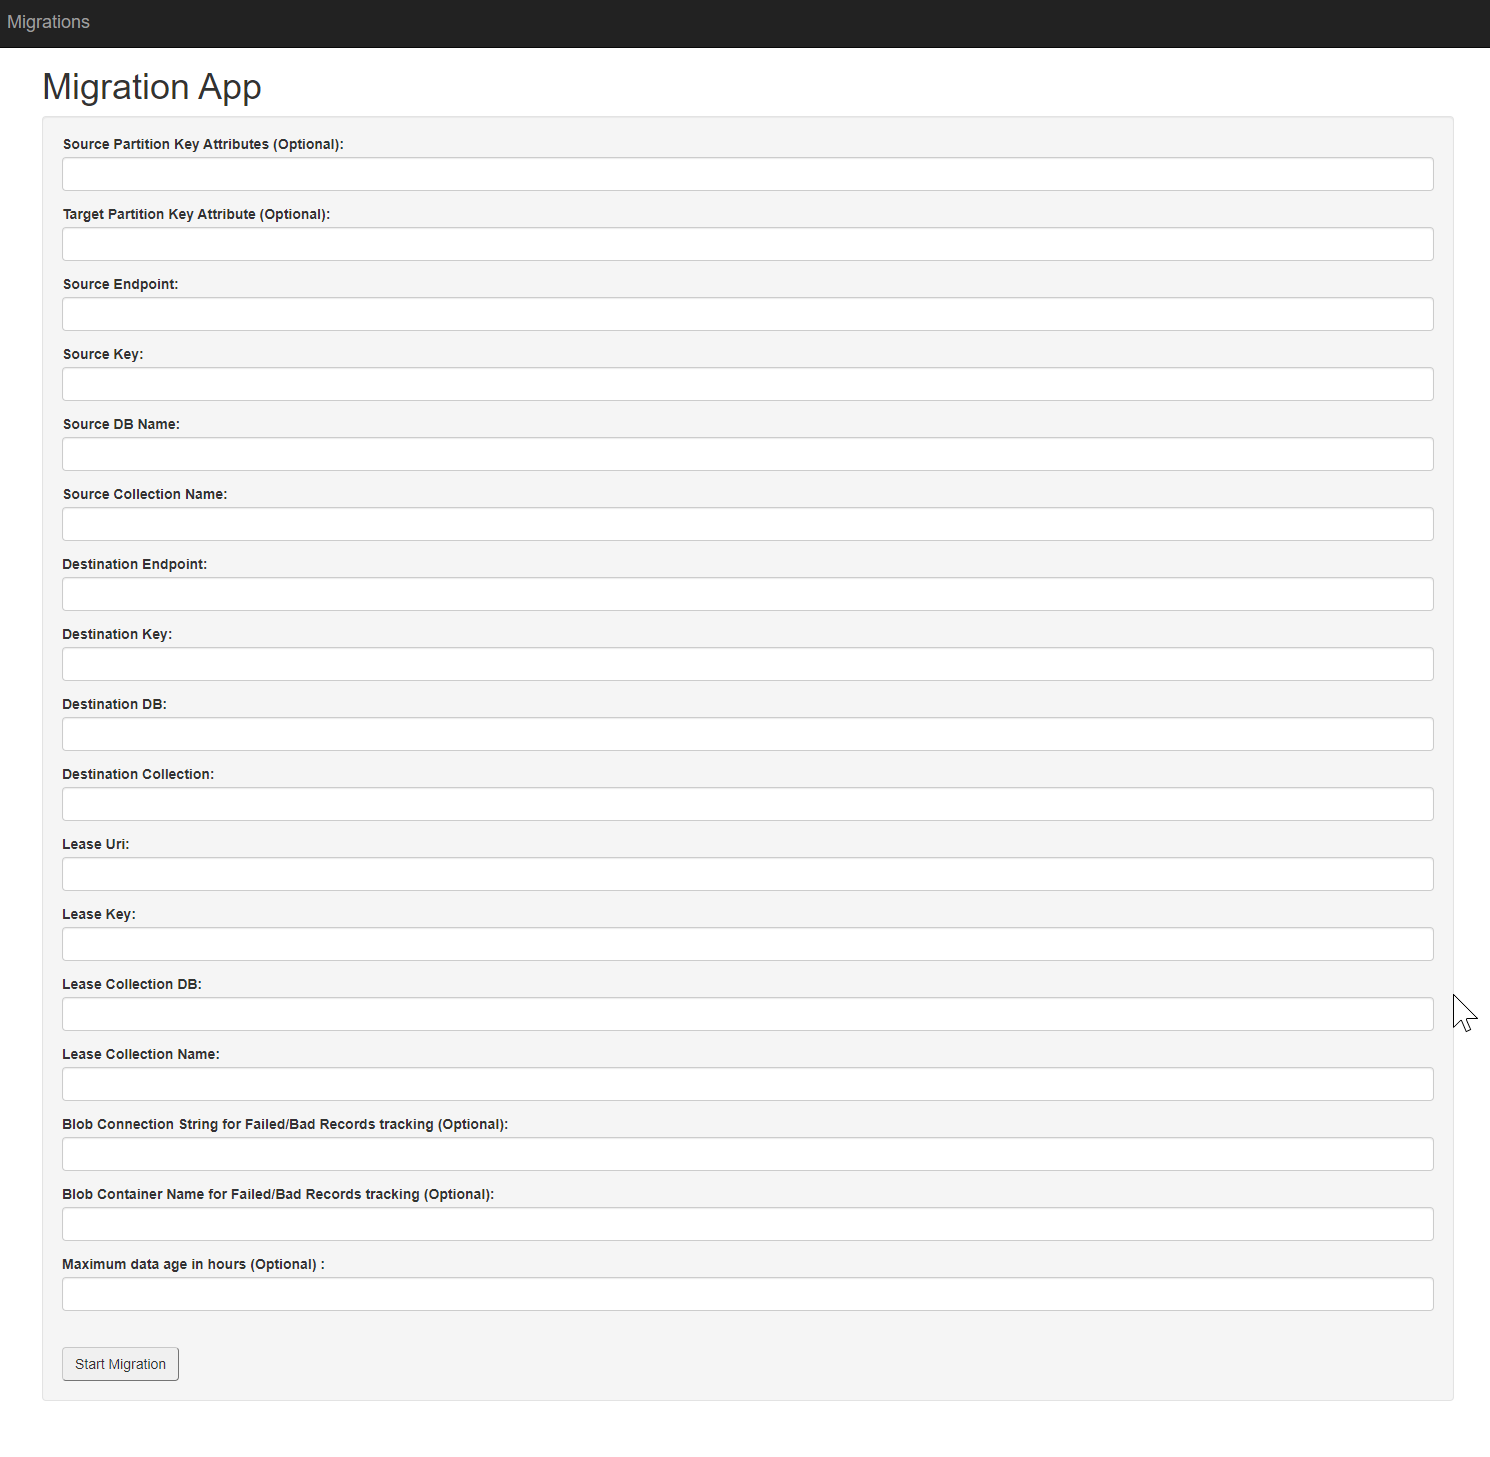
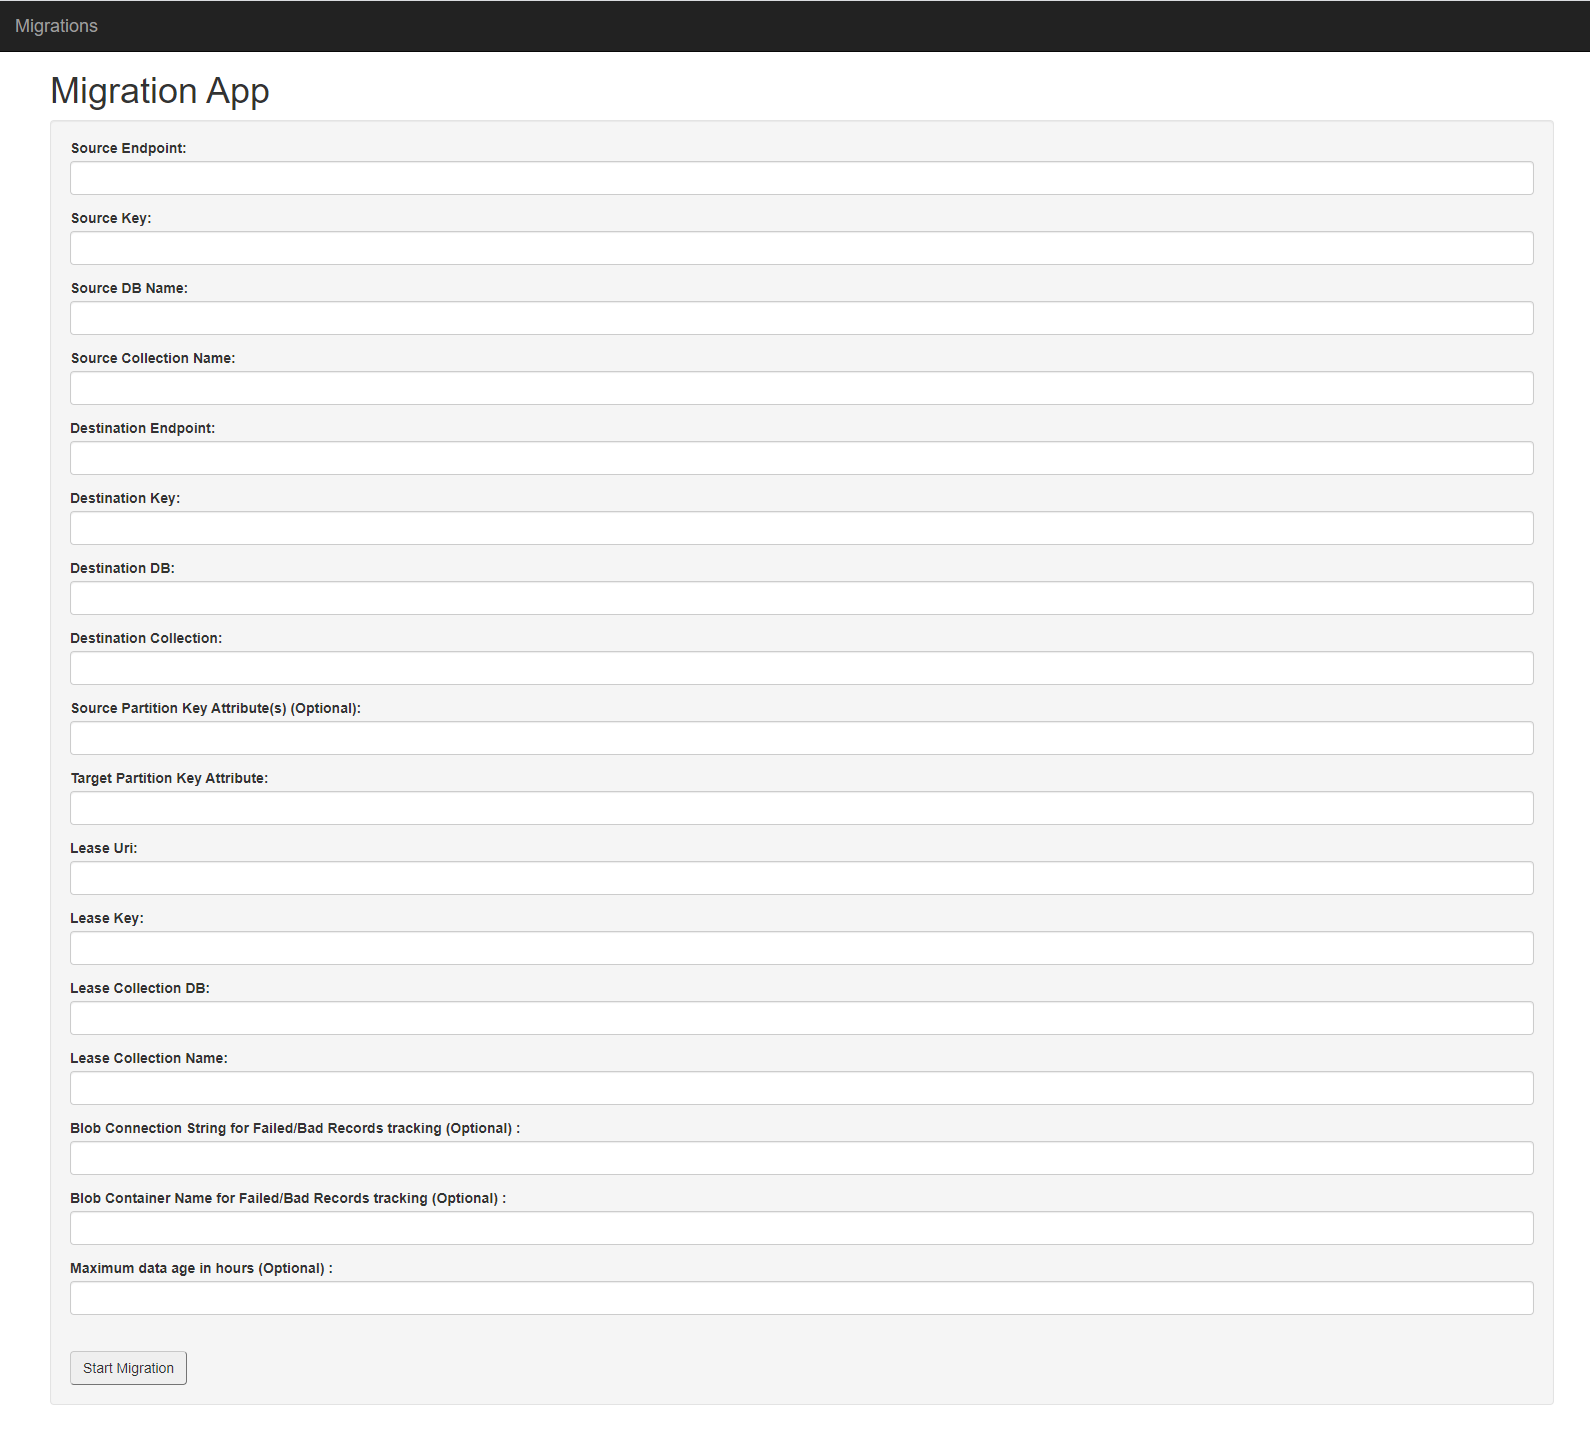
fix delete crash and readme changes

diff --git a/MigrationExecutorApp/ChangeFeedProcessortHost.cs b/MigrationExecutorApp/ChangeFeedProcessortHost.cs
@@ -151,9 +151,9 @@
             BulkOperations<Document> bulkOperations = new BulkOperations<Document>(docs.Count);
             foreach (Document doc in docs)
             {
-                Console.WriteLine($"\tDetected operation...");
-                document = (SourcePartitionKeys != null & TargetPartitionKey != null) ? MapPartitionKey(doc, isSyntheticKey, TargetPartitionKey, isNestedAttribute, SourcePartitionKeys) : document = doc;
-                bulkOperations.Tasks.Add(containerToStoreDocuments.CreateItemAsync(item: document, cancellationToken: cancellationToken).CaptureOperationResponse(document));
+                //Console.WriteLine($"\tDetected operation...");                
+                document = (SourcePartitionKeys != null & (!(SourcePartitionKeys.Equals("")))) ? MapPartitionKey(doc, isSyntheticKey, TargetPartitionKey, isNestedAttribute, SourcePartitionKeys) : document = doc;
+                bulkOperations.Tasks.Add(containerToStoreDocuments.UpsertItemAsync(item: document, cancellationToken: cancellationToken).CaptureOperationResponse(document));
             }
             BulkOperationResponse<Document> bulkOperationResponse = await bulkOperations.ExecuteAsync();
             if (bulkOperationResponse.Failures.Count > 0 && containerClient != null)

diff --git a/README.md b/README.md
@@ -50,11 +50,9 @@ You will then be presented will some fields you need to populate for the deploym
 
 - Add the Cosmos DB connection details for Lease DB, which is used in the ChangeFeed process. The lease collection, if partitioned, must have partition key column named as "id".
 
-- [Optional] Add the Azure Blob Connection string and Container Name to store the failed / bad records. The complete records would be stored in this Container and can be used for point inserts.
+- Add "Target Partition Key Attribute". This should be the path to the partition key field in the target collection. If the "Source Partition Key Attribute(s)" (see below) is left blank, then it is assumed that partition key in source and target collection are identical, and no mapping will be applied.
 
-- [Optional] Maximum data age in hours is used to derive the starting point of time to read from source container. In other words, it starts looking for changes after [currenttime - given number of hours] in source. The data migration starts from beginning if this parameter is not specified.
-
-- [Optional] The "Source Partition Key Attributes" and "Target Partition Key Attribute" fields are used for mapping partition key attributes from your source collection to your target collection. For example, if you want to have a dedicated or synthetic partition key in your new collection named "partitionKey", and this will be populated from "deviceId", you should enter `deviceId` in "Source Partition Key Attributes" field, and `partitionKey` in the "Target Partition Key" field. You can also add multiple fields separated by a comma to map a synthetic key, e.g. add `deviceId,timestamp` in the "Source Partition Key Attribute(s)" field. Nested source fields are also supported, for example `Parent1/Child1,Parent2/Child2`. If you want to select an item in an array, for example:
+- [Optional] The "Source Partition Key Attribute(s)" field is used for mapping partition key attributes from your source collection to your target collection. For example, if you want to have a dedicated or synthetic partition key in your new (target) collection named "partitionKey", and this will be populated from "deviceId" in your source collection, you should enter `deviceId` in "Source Partition Key Attributes" field, and `partitionKey` in the "Target Partition Key Attribute" field. You can also add multiple fields separated by a comma to map a synthetic key, e.g. add `deviceId,timestamp` in the "Source Partition Key Attribute(s)" field. Nested source fields are also supported, for example `Parent1/Child1,Parent2/Child2`. If you want to select an item in an array, for example:
 
 	```json
 		{
@@ -69,7 +67,11 @@ You will then be presented will some fields you need to populate for the deploym
 			]
 		}
 	```
-	You can use xpath syntax, e.g. `parent/item[1]/child`. In all cases of synthetic partition key mapping, these will be separated with a dash when mapped to the target collection, e.g. `value1-value2`. If no mapping is required, as there is no dedicated partition key field in your source or target collection, you can leave these fields blank.
+	You can use xpath syntax, e.g. `parent/item[1]/child`. In all cases of synthetic partition key mapping, these will be separated with a dash when mapped to the target collection, e.g. `value1-value2`. If no mapping is required, as there is no dedicated partition key field in your source or target collection, you can leave this field blank (but you must still enter the target collection's partition key field in "Target Partition Key Attribute").
+
+- [Optional] Add the Azure Blob Connection string and Container Name to store the failed / bad records. The complete records would be stored in this Container and can be used for point inserts.
+
+- [Optional] Maximum data age in hours is used to derive the starting point of time to read from source container. In other words, it starts looking for changes after [currenttime - given number of hours] in source. The data migration starts from beginning if this parameter is not specified.
  
 ![Migrationdetails](images/migrationdetails.png)
 
